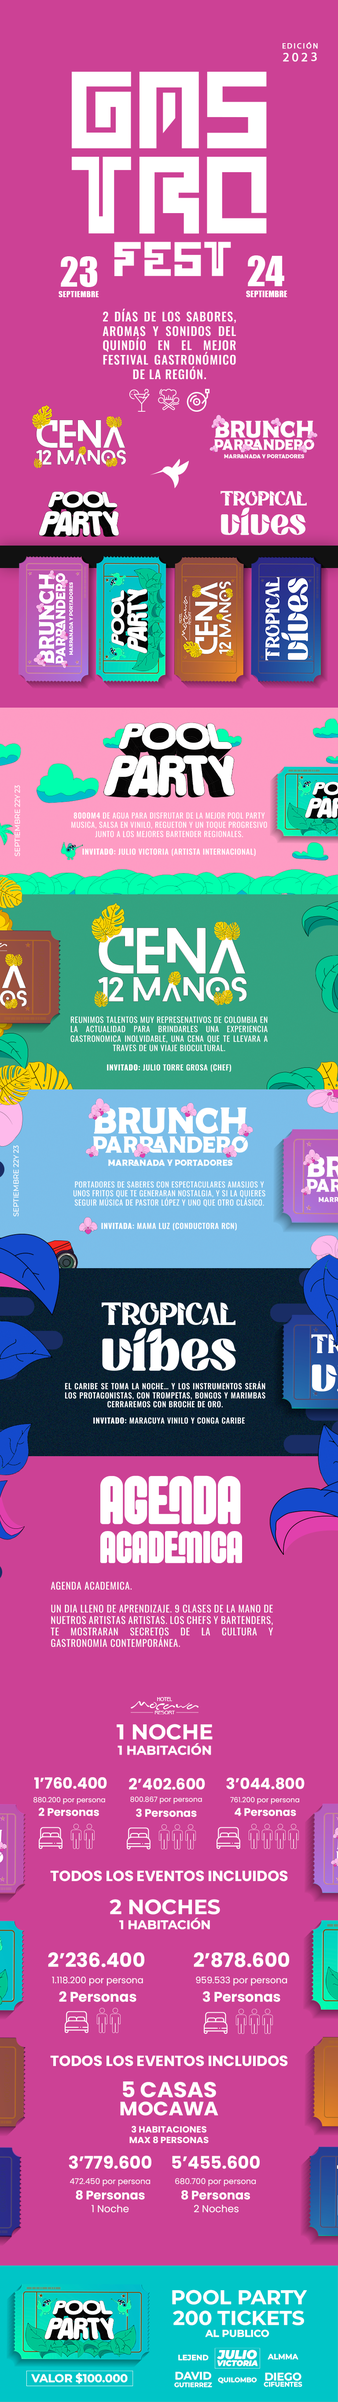
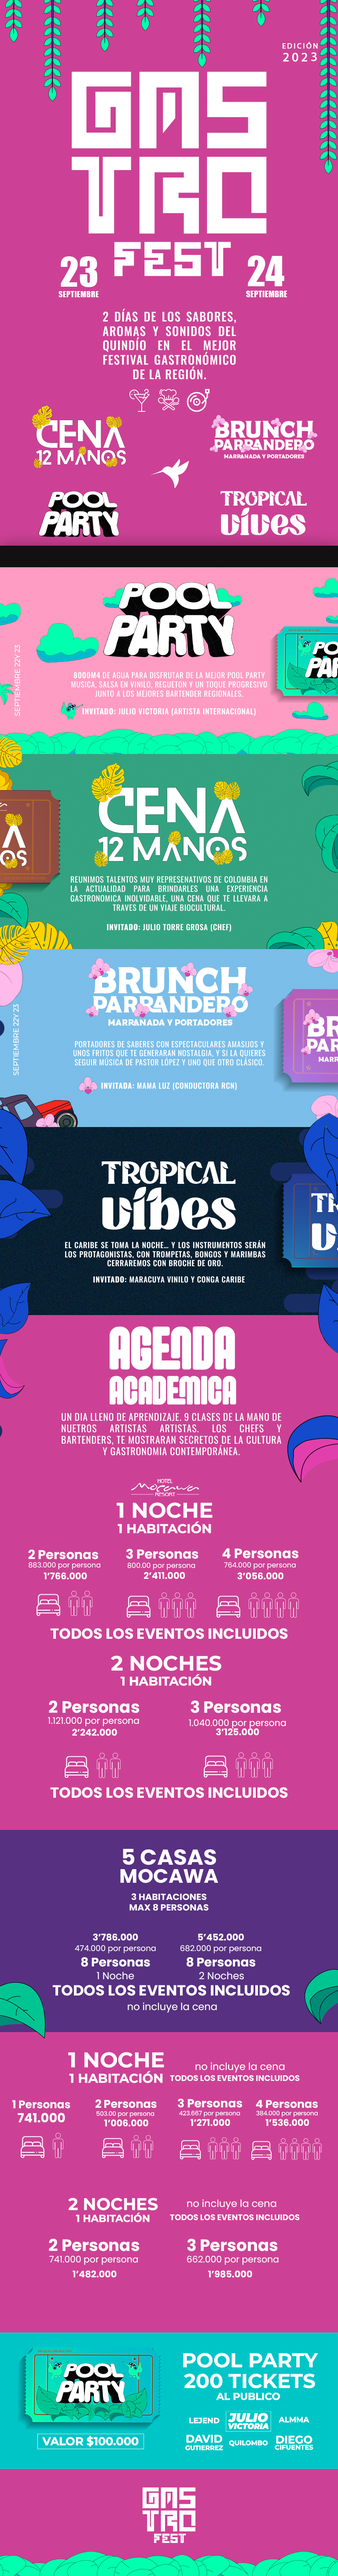
Adding bg changes

diff --git a/src/app/page.module.css b/src/app/page.module.css
@@ -1,9 +1,9 @@
 .backgroundContainer {
-  background-image: url('/img/web_corr.png'); /* Ruta relativa a la carpeta 'public' */
-  background-size: contain;
+  background-image: url('/img/web_pc.png'); /* Ruta relativa a la carpeta 'public' */
+  background-size: 100%;
   background-repeat: no-repeat;
   /* Otros estilos que quieras aplicar al contenedor */
-  height: 323rem;
+  height: 441rem;
   margin: 0;
   background-color: #cc4195;
   scroll-behavior: smooth;
@@ -63,9 +63,22 @@
   }
 }
 
+@media (max-width: 1025px) {
+  .backgroundContainer {
+    height: 305rem;
+    background-size: 100%;
+  }
+}
+
+@media (max-width: 913px) {
+  .backgroundContainer {
+    height: 271.8rem;
+  }
+}
+
 @media (max-width: 821px) {
   .backgroundContainer {
-    height: 175rem;
+    height: 244.3rem;
   }
 }
 
@@ -73,13 +86,14 @@
 @media screen and (max-width: 769px) {
   .backgroundContainer {
     background-size: 100%;
-    height: 340rem;
+    height: 365.5rem;
     background-image: url('/img/webcelular.png'); /* Ruta relativa a la carpeta 'public' */
   }
 }
 
-@media screen and (max-width: 431px) {
+@media screen and (max-width: 541px) {
   .backgroundContainer {
+    height: 256.5rem;
   }
 }
 
@@ -87,29 +101,42 @@
 
 @media (max-width: 415px) {
   .backgroundContainer {
-    height: 185rem;
+    height: 196.5rem;
   }
 }
 
 @media screen and (max-width: 413px) {
   .backgroundContainer {
-    height: 183rem;
+    height: 195.7rem;
   }
 }
 
 @media (max-width: 394px) {
   .backgroundContainer {
-    height: 175rem;
+    height: 187.4rem;
   }
 }
+
 @media (max-width: 391px) {
   .backgroundContainer {
-    height: 175rem;
+    height: 185.3rem;
+  }
+}
+
+@media (max-width: 376px) {
+  .backgroundContainer {
+    height: 178.3rem;
   }
 }
 
 @media (max-width: 361px) {
   .backgroundContainer {
-    height: 160rem;
+    height: 171rem;
+  }
+}
+
+@media (max-width: 280px) {
+  .backgroundContainer {
+    height: 133rem;
   }
 }
